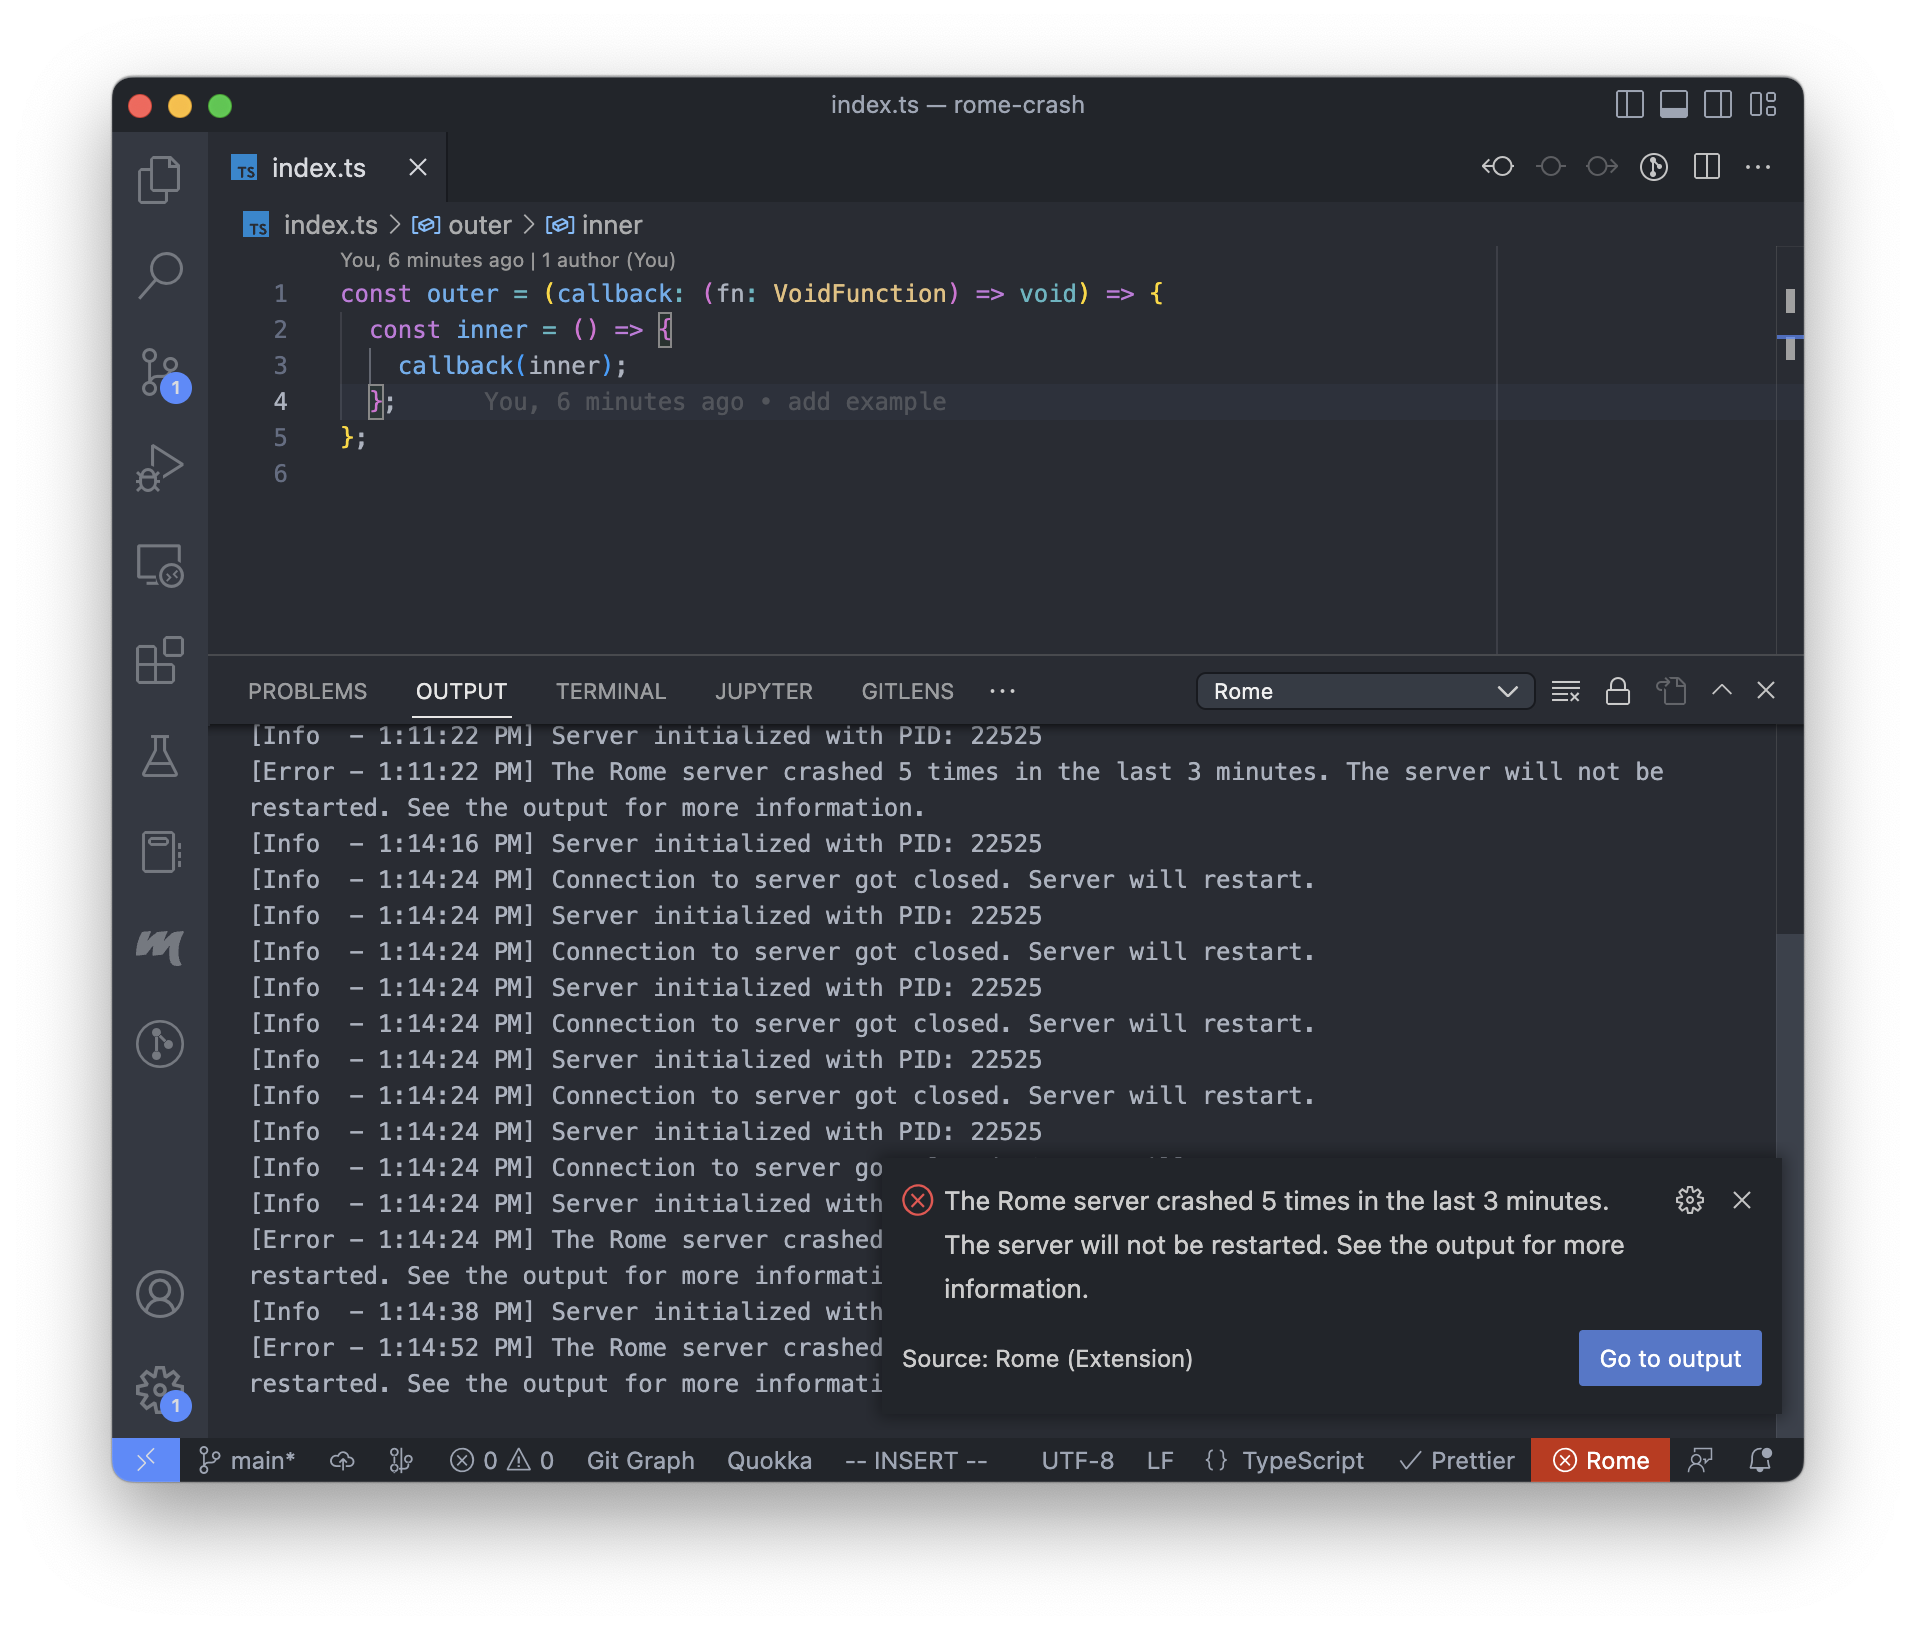
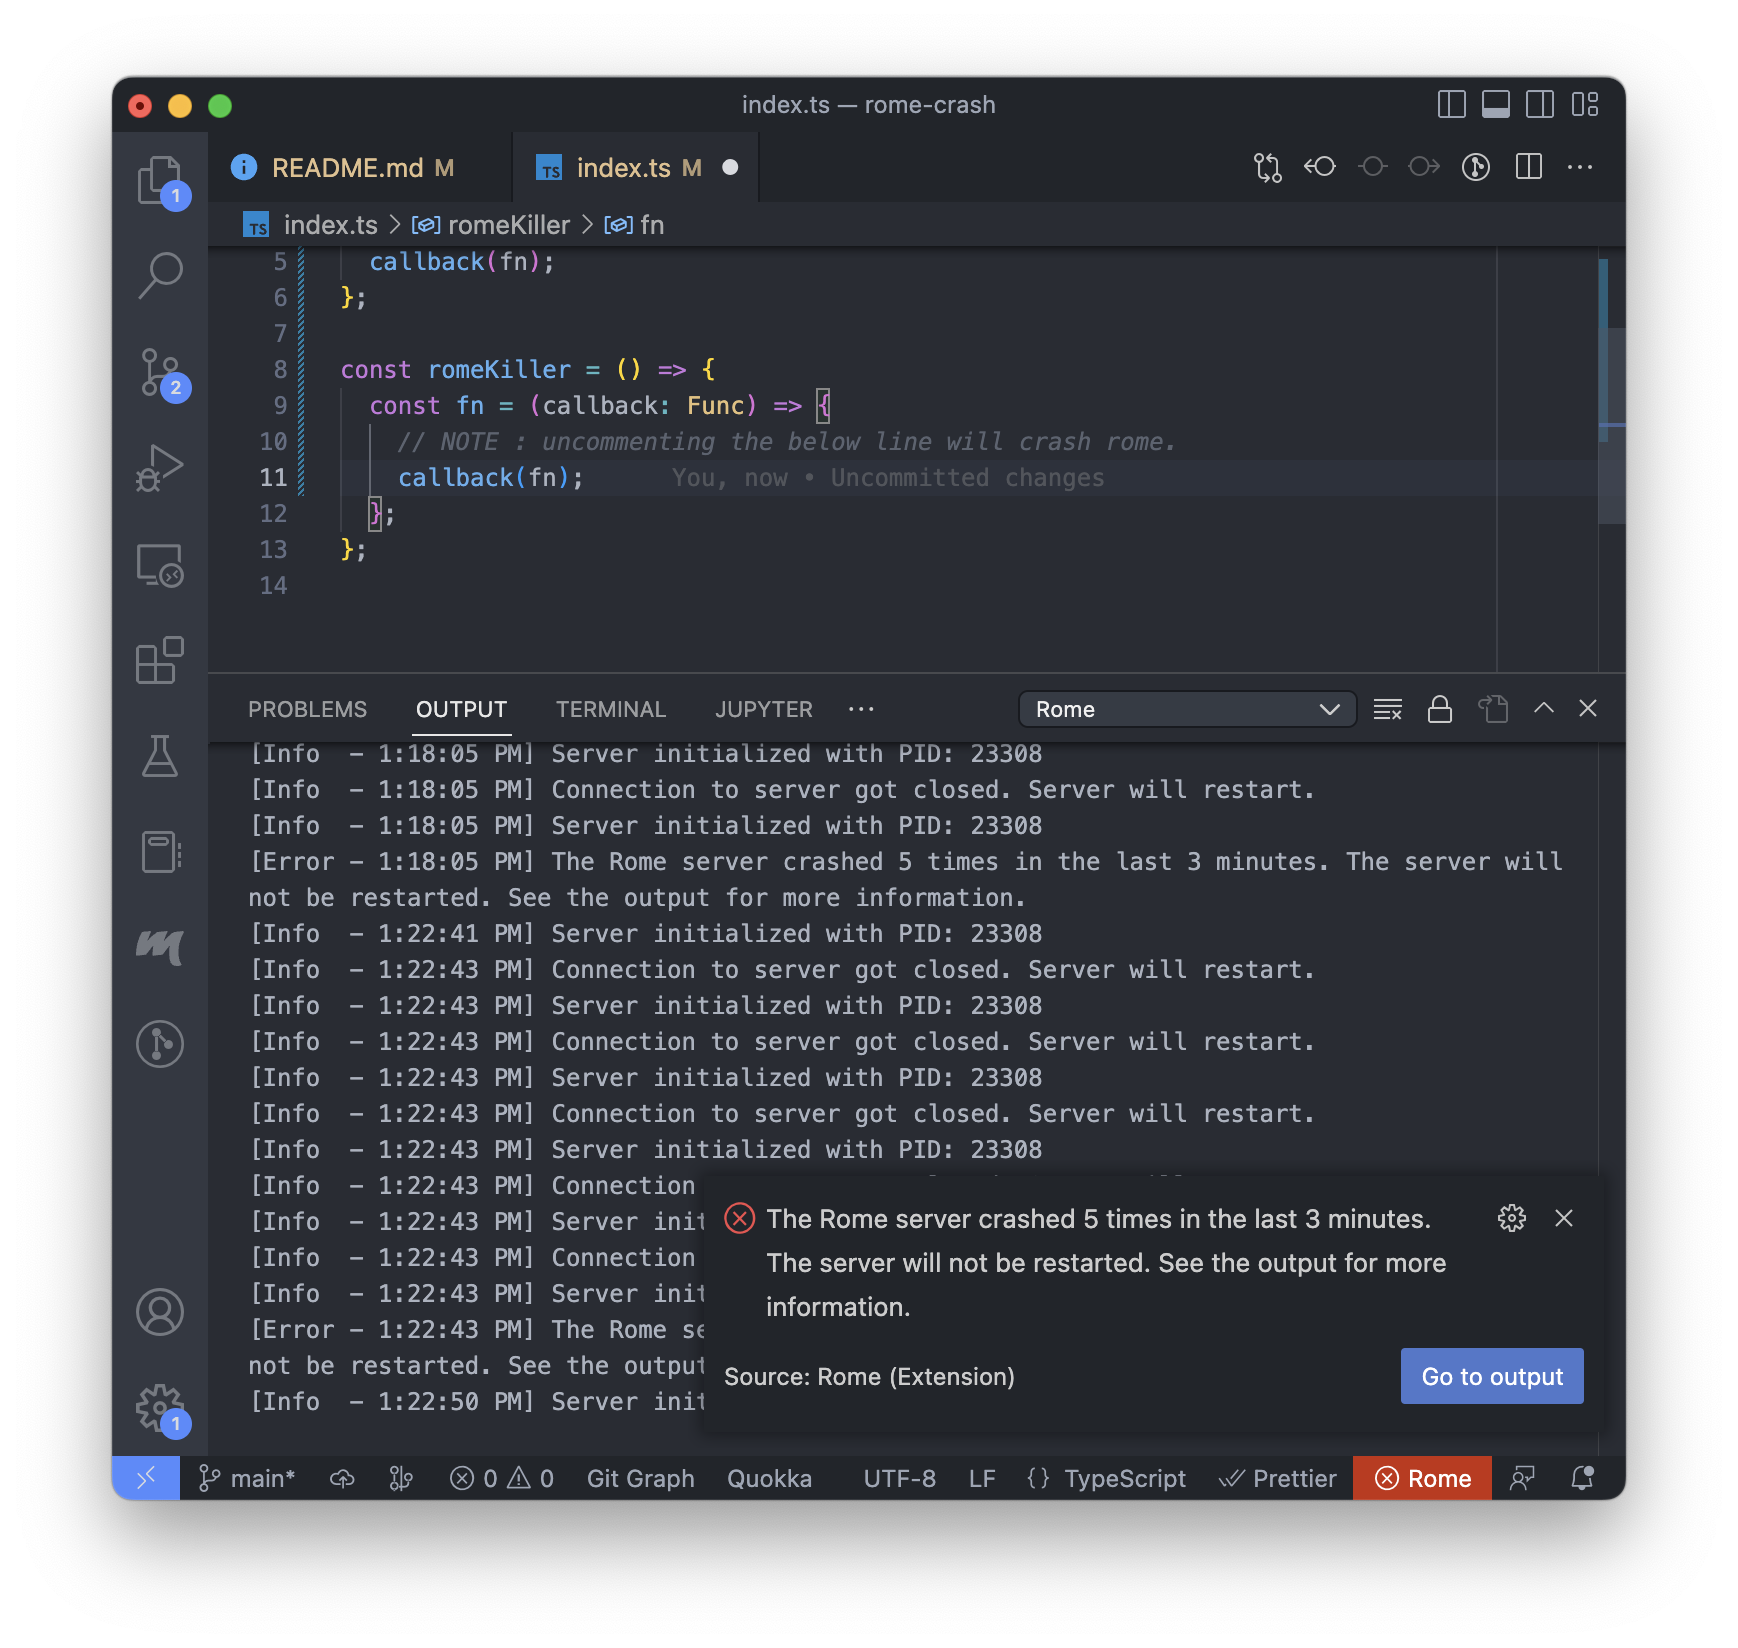
update example

diff --git a/index.ts b/index.ts
@@ -1,5 +1,13 @@
-const outer = (callback: (fn: VoidFunction) => void) => {
-  const inner = () => {
-    callback(inner);
+type Func = (callback: Func) => void;
+
+// this doesn't kill rome
+const fn = (callback: Func) => {
+  callback(fn);
+};
+
+const romeKiller = () => {
+  const fn = (callback: Func) => {
+    // NOTE : uncommenting the below line will crash rome.
+    // callback(fn);
   };
 };

diff --git a/README.md b/README.md
@@ -31,8 +31,13 @@
 
 2. Open `index.ts`.
 
-3. Move around cursor, and hit Ctrl + S (or Command + S)
+3. Get around with code to see if Rome dies. (it shouldn't)
 
-4. After a while, VSCode shows crash message for Rome.
+4. Uncomment the line 11.
+```
+// callback(fn);
+```
+
+5. After a while, VSCode shows crash message for Rome.
 
 ![screenshot](screenshot.png)
